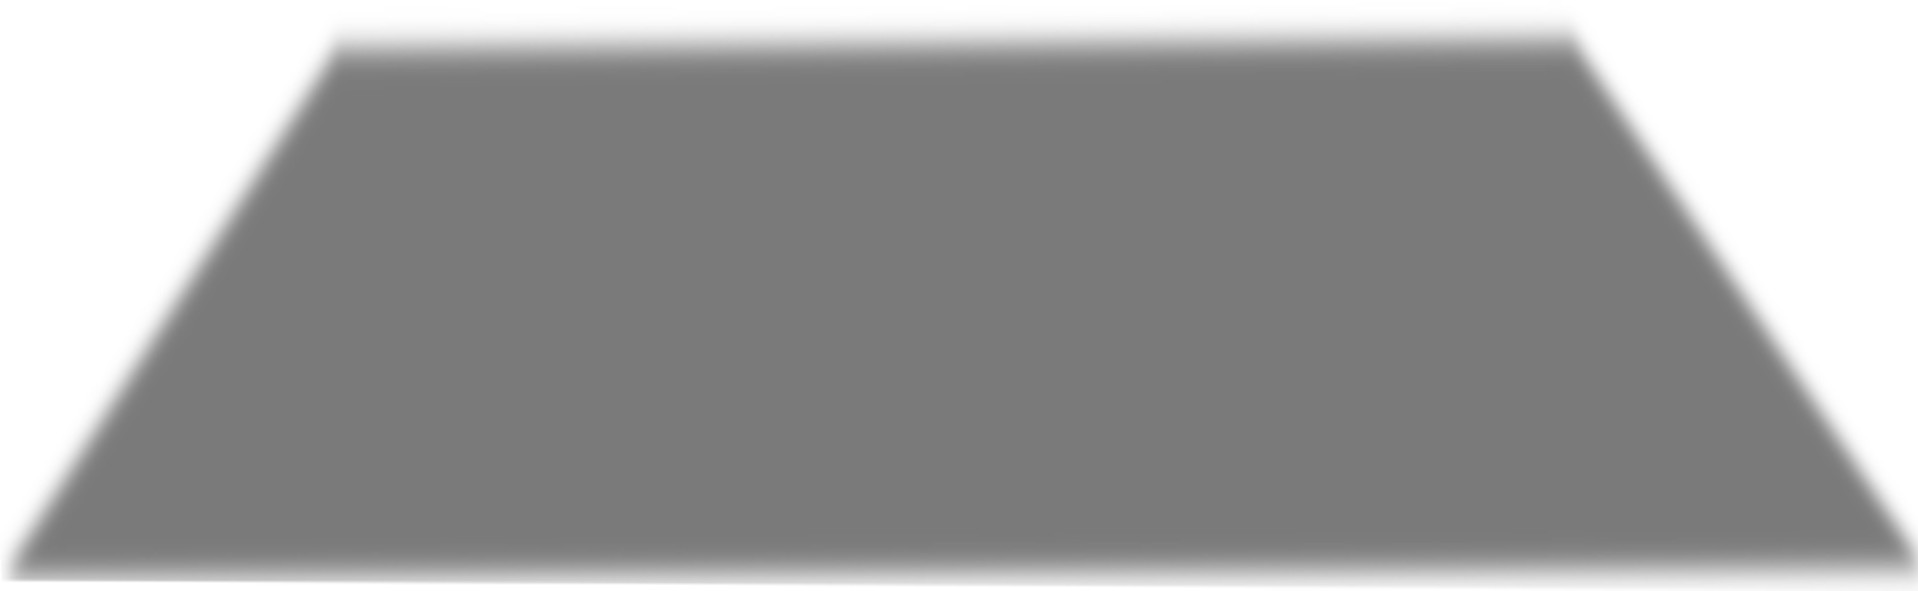
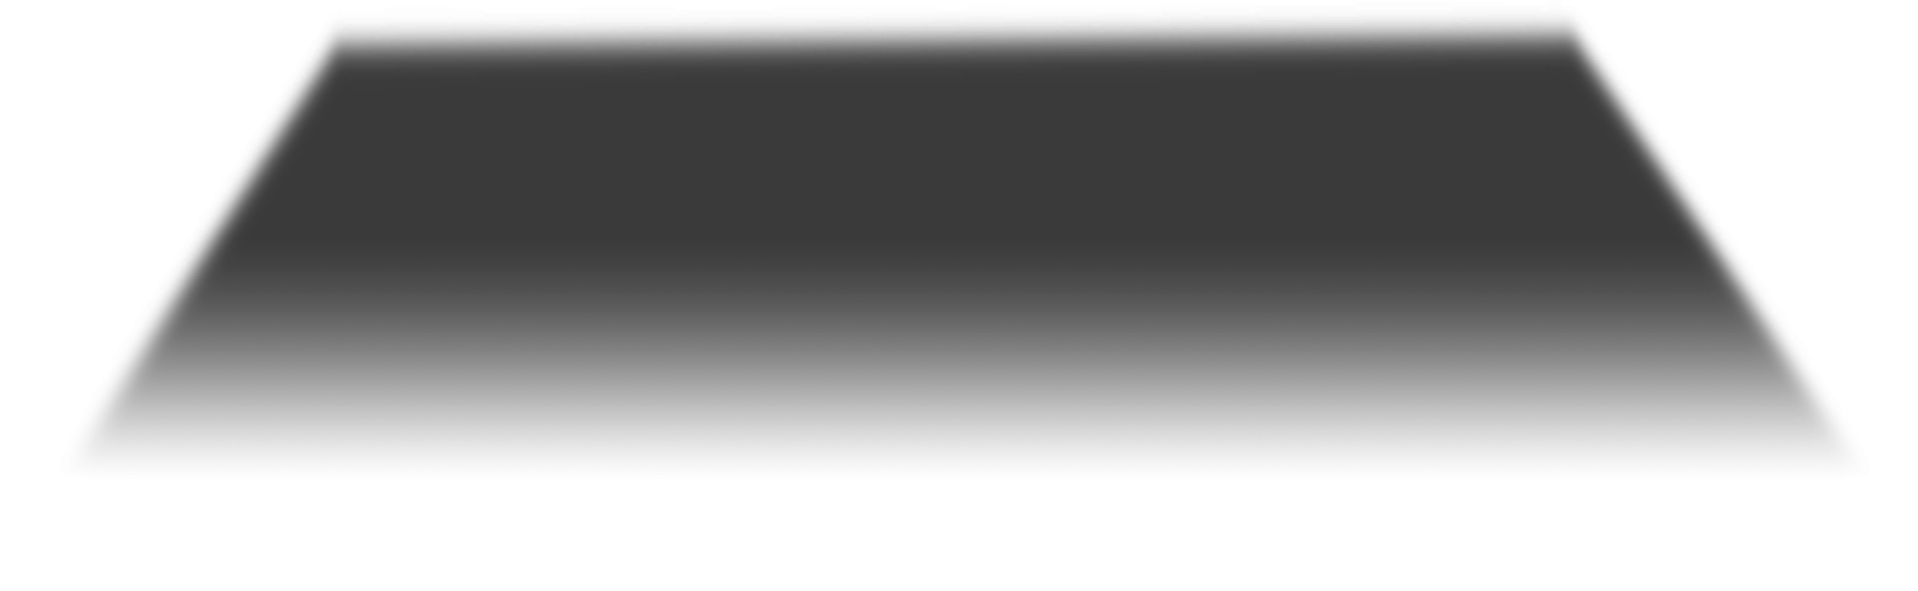
Improve styles

diff --git a/prod/main-60b94870645c21b04190.css b/prod/main-60b94870645c21b04190.css
@@ -1,0 +1,2 @@
+*{margin:0;padding:0;box-sizing:border-box}html{font-size:9px}@media (min-width: 640px){html{font-size:10px}}@media (min-width: 800px){html{font-size:11px}}body{font-size:2rem;font-family:"Rye",cursive;color:#fff;text-align:center;font-weight:normal;background-color:#000}h1{font-family:"Rye",cursive;color:#c68f49;text-align:center;font-size:3.6rem;text-transform:uppercase;margin-bottom:50px}.board{-webkit-filter:brightness(1);filter:brightness(1);position:absolute;top:0;left:0;width:100%;height:100%;overflow:hidden;background-image:url(images/saloon734960.jpg);background-position:top center;background-repeat:no-repeat;background-size:cover}.board__frame{position:absolute;background-repeat:no-repeat;background-size:cover;background-image:url(images/frameb63f53.svg)}.board__frame--top{top:0;left:0;width:100%;height:75px;background-position:top center}.board__frame--bottom{bottom:0;left:0;width:100%;height:75px;background-position:bottom center;-webkit-transform:rotate(180deg);transform:rotate(180deg)}.game{position:absolute;top:0;left:0;width:100%;height:100%;overflow:hidden;display:-webkit-box;display:flex;-webkit-box-align:center;align-items:center;-webkit-box-pack:center;justify-content:center;cursor:url(images/aim4996cc.png) 50 50,auto}.score{position:absolute;top:20px;right:0;width:150px;height:80px;color:#fff;display:none;background-image:url(images/stainb812cc.svg);background-position:center left;background-repeat:no-repeat;background-size:cover;-webkit-box-pack:center;justify-content:center}.score__text{color:#fff;line-height:80px}.saloon{display:-webkit-box;display:flex;display:none;position:relative;flex-wrap:wrap;-webkit-box-align:start;align-items:flex-start;justify-content:space-around;background-image:url(images/buildingc830b2.jpg);background-position:top center;background-repeat:no-repeat;background-size:cover;-webkit-filter:brightness(0.9);filter:brightness(0.9);max-width:1000px;padding:100px 50px 0 50px}.saloon__part{display:-webkit-box;display:flex;flex-wrap:nowrap;flex-basis:33%;padding-bottom:0;justify-content:space-around}.window{background:#000;position:relative;margin-bottom:40px;display:-webkit-box;display:flex}.window__shutter{width:60px;background-image:url(images/shutter954eb8.png);background-position:center center;background-repeat:no-repeat;background-size:cover;display:none}@media (min-width: 640px){.window__shutter{display:-webkit-box;display:flex}}.window__frame{width:100px;height:100px;margin:0;position:relative;overflow:hidden;background-image:url(images/window27bd21.png);background-position:center center;background-repeat:no-repeat;background-size:contain}.window__frame--bottom{position:absolute;bottom:0;left:0;width:100%;height:10px;background-image:url(images/window-frame-btbf74b0.png);background-position:left bottom;background-repeat:no-repeat;background-size:contain}@media (min-width: 1024px){.window__frame{width:140px;height:140px}}.door{background:#000;position:relative;display:-webkit-box;display:flex}.door__shutter{width:60px;background-image:url(images/shutter954eb8.png);background-position:center center;background-repeat:no-repeat;background-size:cover}.door__frame{width:100px;height:200px;margin:0;position:relative;overflow:hidden;background-image:url(images/door-framea0e9ac.png);background-position:center center;background-repeat:no-repeat;background-size:cover}@media (min-width: 1024px){.door__frame{width:140px;height:240px}}.door__bg{position:absolute;top:50%;left:0;width:100%;height:50%;-webkit-transform:translateY(-50%);transform:translateY(-50%);background-image:url(images/door1d5029.png);background-position:center center;background-repeat:no-repeat;background-size:cover}.gunfighter{position:absolute;-webkit-transform:translateX(-50%);transform:translateX(-50%);top:100%;left:50%;height:300px;width:66%;background-image:url(images/gunfighter3b3f4c.png);background-position:center top;background-repeat:no-repeat;background-size:contain}.signboard{width:300px;height:150px;position:absolute;top:-20%;left:50%;-webkit-transform:translateX(-50%);transform:translateX(-50%);background-image:url(images/signboard2c17e0a.png);background-position:left bottom;background-repeat:no-repeat;background-size:contain;display:-webkit-box;display:flex;-webkit-box-pack:center;justify-content:center;-webkit-box-align:center;align-items:center}.signboard__text{color:#fff;font-size:50px;text-align:center;font-family:"Rye",cursive;opacity:0.9;text-shadow:#000 1px 1px;flex-basis:100%}.bullets{position:absolute;bottom:30px;left:10px;width:100%;z-index:99;text-align:left}.bullet{width:20px;height:60px;z-index:99;display:inline-grid;margin-left:5px;background-image:url(images/bullete91d69.png);background-position:left bottom;background-repeat:no-repeat;background-size:contain;-webkit-transform:rotate(10deg);transform:rotate(10deg)}.intro{position:absolute;top:50%;left:50%;width:100%;-webkit-transform:translate(-50%, -50%);transform:translate(-50%, -50%)}.intro__description{display:-webkit-box;display:flex;-webkit-box-align:center;align-items:center;-webkit-box-pack:center;justify-content:center;width:100%;height:50%}.intro__paragraph{text-shadow:#000 1px 1px 1px;margin-bottom:50px}.intro__title{text-shadow:#000 1px 1px 1px}.intro__btn{background-image:url(images/stainb812cc.svg);background-position:center center;background-repeat:no-repeat;background-size:cover;margin:0 auto;width:350px;height:70px}.intro__btn:hover{-webkit-filter:brightness(1.5);filter:brightness(1.5)}.intro__link{color:#fff;font-size:24px;padding:15px 30px;text-shadow:#000 1px 1px 1px;display:block}.round{position:absolute;top:50%;left:50%;-webkit-transform:translate(-50%, -50%);transform:translate(-50%, -50%);display:none;background-image:url(images/stainb812cc.svg);background-position:center center;background-repeat:no-repeat;background-size:cover;margin:0 auto;width:600px;height:120px;flex-wrap:wrap;-webkit-box-pack:center;justify-content:center;-webkit-box-align:center;align-items:center}.round:hover{-webkit-filter:brightness(1.5);filter:brightness(1.5)}.round__btn{color:#c68f49;font-size:1.6rem}.round__congrat{color:#fff;text-transform:uppercase;flex-basis:100%;font-size:2.4rem}.gameover{position:absolute;top:50%;left:50%;-webkit-transform:translate(-50%, -50%);transform:translate(-50%, -50%);display:none;background-image:url(images/stainb812cc.svg);background-position:center center;background-repeat:no-repeat;background-size:cover;margin:0 auto;width:600px;height:120px;flex-wrap:wrap;-webkit-box-pack:center;justify-content:center;-webkit-box-align:center;align-items:center}.gameover:hover{-webkit-filter:brightness(1.5);filter:brightness(1.5)}.gameover__btn{color:#c68f49;font-size:1.6rem}.gameover__text{color:#fff;text-transform:uppercase;font-size:2.4rem}.gameover__score{color:#fff;text-transform:uppercase;font-size:2.4rem}.blood{width:30px;height:30px;-webkit-transform:translate(-15px, -15px);transform:translate(-15px, -15px);position:absolute;background-image:url(images/stain66e712.png);background-position:left bottom;background-repeat:no-repeat;background-size:contain;z-index:99}.showGunfigter{top:10%}.hide{display:none}.show{display:-webkit-box !important;display:flex !important}.flex{display:-webkit-box;display:flex}
+

diff --git a/prod/index.html b/prod/index.html
@@ -1,1 +1,1 @@
-<!DOCTYPE html><html lang="en"><head><meta charset="UTF-8"><meta name="viewport" content="width=device-width,initial-scale=1"><meta http-equiv="X-UA-Compatible" content="ie=edge"><title>Saloon</title><!-- Font --><link href="https://fonts.googleapis.com/css?family=Rye&display=swap&subset=latin-ext" rel="stylesheet"><link href="main-d9a3f984d187c220eeae.css" rel="stylesheet"></head><body><div class="board"><div class="board__frame board__frame--top"></div><div class="board__frame board__frame--bottom"></div><div class="score"><p class="score__text"></p></div></div><div class="game"><!-- Saloon --><div class="saloon"><!-- Saloon part--><div class="saloon__part"><div class="window"><div class="window__shutter"></div><div class="window__frame"><div class="gunfighter"></div><div class="window__frame--bottom"></div></div><div class="window__shutter"></div></div></div><!-- END Saloon part--><!-- Saloon part--><div class="saloon__part"><div class="window"><div class="window__shutter"></div><div class="window__frame"><div class="gunfighter"></div><div class="window__frame--bottom"></div></div><div class="window__shutter"></div></div></div><!-- END Saloon part--><!-- Saloon part--><div class="saloon__part"><div class="window"><div class="window__shutter"></div><div class="window__frame"><div class="gunfighter"></div><div class="window__frame--bottom"></div></div><div class="window__shutter"></div></div></div><!-- END Saloon part--><!-- Saloon part--><div class="saloon__part"><div class="window"><div class="window__shutter"></div><div class="window__frame"><div class="gunfighter"></div><div class="window__frame--bottom"></div></div><div class="window__shutter"></div></div></div><!-- END Saloon part--><!-- Saloon part--><div class="saloon__part"><div class="door"><div class="door__frame"><div class="gunfighter"></div><div class="door__bg"></div></div></div></div><!-- END Saloon part--><!-- Saloon part--><div class="saloon__part"><div class="window"><div class="window__shutter"></div><div class="window__frame"><div class="gunfighter"></div><div class="window__frame--bottom"></div></div><div class="window__shutter"></div></div></div><!-- END Saloon part--><div class="signboard"><div class="signboard__text">Saloon</div></div></div><!-- END Saloon--><div class="intro"><div class="intro__description"><div class="intro__text"><h1 class="intro__title">welcome to wild west</h1><p class="intro__paragraph">Do You want to try,<br>how fast you are?</p></div></div><div class="intro__btn"><a class="intro__link">Start</a></div></div><div class="round"><div class="round__wrapper"><p class="round__congrat">Congratulation!</p><a class="round__btn">Next Round</a></div></div><div class="bullets"></div><audio controls><source src="audio/gun.mp3" type="audio/mpeg">Your browser does not support the audio tag.</audio></div><script type="text/javascript" src="js/main-f0a969a6eb8a2efe4854.js"></script></body></html>
+<!DOCTYPE html><html lang="en"><head><meta charset="UTF-8"><meta name="viewport" content="width=device-width,initial-scale=1"><meta http-equiv="X-UA-Compatible" content="ie=edge"><title>Saloon</title><!-- Font --><link href="https://fonts.googleapis.com/css?family=Rye&display=swap&subset=latin-ext" rel="stylesheet"><link href="main-60b94870645c21b04190.css" rel="stylesheet"></head><body><div class="board"><div class="board__frame board__frame--top"></div><div class="board__frame board__frame--bottom"></div><div class="score"><p class="score__text"></p></div></div><div class="game"><!-- Saloon --><div class="saloon"><!-- Saloon part--><div class="saloon__part"><div class="window"><div class="window__shutter"></div><div class="window__frame"><div class="gunfighter"></div><div class="window__frame--bottom"></div></div><div class="window__shutter"></div></div></div><!-- END Saloon part--><!-- Saloon part--><div class="saloon__part"><div class="window"><div class="window__shutter"></div><div class="window__frame"><div class="gunfighter"></div><div class="window__frame--bottom"></div></div><div class="window__shutter"></div></div></div><!-- END Saloon part--><!-- Saloon part--><div class="saloon__part"><div class="window"><div class="window__shutter"></div><div class="window__frame"><div class="gunfighter"></div><div class="window__frame--bottom"></div></div><div class="window__shutter"></div></div></div><!-- END Saloon part--><!-- Saloon part--><div class="saloon__part"><div class="window"><div class="window__shutter"></div><div class="window__frame"><div class="gunfighter"></div><div class="window__frame--bottom"></div></div><div class="window__shutter"></div></div></div><!-- END Saloon part--><!-- Saloon part--><div class="saloon__part"><div class="door"><div class="door__frame"><div class="gunfighter"></div><div class="door__bg"></div></div></div></div><!-- END Saloon part--><!-- Saloon part--><div class="saloon__part"><div class="window"><div class="window__shutter"></div><div class="window__frame"><div class="gunfighter"></div><div class="window__frame--bottom"></div></div><div class="window__shutter"></div></div></div><!-- END Saloon part--><div class="signboard"><div class="signboard__text">Saloon</div></div></div><!-- END Saloon--><div class="intro"><div class="intro__description"><div class="intro__text"><h1 class="intro__title">welcome to wild west</h1><p class="intro__paragraph">Do You want to try,<br>how fast you are?</p></div></div><div class="intro__btn"><a class="intro__link">Start</a></div></div><div class="round"><div class="round__wrapper"><p class="round__congrat">Congratulation!</p><a class="round__btn">Next Round</a></div></div><div class="bullets"></div><div class="gameover"><div class="gameover__wrapper"><p class="gameover__text">Game Over</p><a class="gameover__btn">Your score: <span class="gameover__score"></span></a></div></div><audio class="audio__gun"><source src="audio/gun.mp3" type="audio/mpeg">Your browser does not support the audio tag.</audio></div><script type="text/javascript" src="js/main-a8a27e42a92c5da461fc.js"></script></body></html>

diff --git a/src/sass/_components.scss b/src/sass/_components.scss
@@ -52,9 +52,9 @@
 // Score
 .score {
   position: absolute;
-  top: 20px;
+  top: 30px;
   right: 0;
-  width: 150px;
+  width: 120px;
   height: 80px;
   color: $white-color;
   display: none;
@@ -63,9 +63,16 @@
   background-repeat: no-repeat;
   background-size: cover;
   justify-content: center;
+  @include mq(s) {
+    width: 150px;
+  }
   &__text {
     color: $white-color;
     line-height: 80px;
+    margin-left: 25px;
+    @include mq(s) {
+      margin-left: 0px;
+    }
   }
 }
 
@@ -82,8 +89,14 @@
   background-repeat: no-repeat;
   background-size: cover;
   filter: brightness(0.9);
-  max-width: 1000px;
-  padding: $xl-space $l-space 0 $l-space;
+  max-width: 980px;
+  padding: 50px 20px 0px 20px;
+  @include mq(s) {
+    padding: 100px 20px 0px 20px;
+  }
+  @include mq(l) {
+    padding: 100px 40px 0px 40px;
+  }
   &__part {
     display: flex;
     flex-wrap: nowrap;
@@ -113,8 +126,8 @@
     }
   }
   &__frame {
-    width: 100px;
-    height: 100px;
+    width: 120px;
+    height: 120px;
     margin: 0;
     position: relative;
     overflow: hidden;
@@ -133,6 +146,12 @@
       background-repeat: no-repeat;
       background-size: contain;
     }
+
+    @include mq(s) {
+      width: 110px;
+      height: 110px;
+    }
+
     @include mq(l) {
       width: 140px;
       height: 140px;
@@ -153,8 +172,8 @@
     background-size: cover;
   }
   &__frame {
-    width: 100px;
-    height: 200px;
+    width: 120px;
+    height: 240px;
     margin: 0;
     position: relative;
     overflow: hidden;
@@ -162,9 +181,13 @@
     background-position: center center;
     background-repeat: no-repeat;
     background-size: cover;
+    @include mq(s) {
+      width: 110px;
+      height: 220px;
+    }
     @include mq(l) {
       width: 140px;
-      height: 240px;
+      height: 280px;
     }
   }
   &__bg {
@@ -190,22 +213,24 @@
   //   top: 10%;
   left: 50%;
   height: 300px;
-  width: 66%;
+  width: 72%;
   background-image: url("../../public/images/gunfighter.png");
   background-position: center top;
   background-repeat: no-repeat;
   background-size: contain;
+  @include mq(s) {
+    width: 66%;
+  }
 }
 
 // Signboard
 
 .signboard {
-  width: 300px;
-  height: 150px;
+  width: 200px;
+  height: 100px;
   position: absolute;
-  top: -20%;
-  left: 50%;
-  transform: translateX(-50%);
+  top: -10%;
+  left: 15px;
   background-image: url("../../public/images/signboard2.png");
   background-position: left bottom;
   background-repeat: no-repeat;
@@ -213,38 +238,62 @@
   display: flex;
   justify-content: center;
   align-items: center;
+  @include mq(s) {
+    width: 300px;
+    height: 150px;
+    position: absolute;
+    top: -20%;
+    left: 50%;
+    transform: translateX(-50%);
+  }
   &__text {
     color: $white-color;
-    font-size: 50px;
+    font-size: 30px;
     text-align: center;
     font-family: $primary-font;
     opacity: 0.9;
     text-shadow: #000 1px 1px;
     flex-basis: 100%;
+    padding-top: 12px;
+
+    @include mq(s) {
+      font-size: 40px;
+    }
+    @include mq(l) {
+      font-size: 50px;
+    }
   }
 }
 
 // Bullets
 .bullets {
   position: absolute;
-  bottom: 30px;
-  left: 10px;
+  bottom: 40px;
+  right: 20px;
   width: 100%;
   z-index: 99;
-  text-align: left;
+  text-align: right;
+  @include mq(s) {
+    text-align: left;
+    left: 20px;
+  }
 }
 
 .bullet {
-  width: 20px;
-  height: 60px;
+  width: 15px;
+  height: 45px;
   z-index: 99;
   display: inline-grid;
-  margin-left: 5px;
+  margin-right: 7px;
   background-image: url("../../public/images/bullet.png");
   background-position: left bottom;
   background-repeat: no-repeat;
   background-size: contain;
   transform: rotate(10deg);
+  @include mq(s) {
+    width: 20px;
+    height: 60px;
+  }
 }
 
 // Intro
@@ -254,6 +303,7 @@
   left: 50%;
   width: 100%;
   transform: translate(-50%, -50%);
+  padding: 0px 10px;
 
   &__description {
     display: flex;
@@ -270,6 +320,7 @@
   }
   &__title {
     text-shadow: $shadow;
+    letter-spacing: 2px;
   }
 
   &__btn {
@@ -376,15 +427,25 @@
 
 // Blood
 .blood {
-  width: 30px;
-  height: 30px;
-  transform: translate(-15px, -15px);
+  width: 70px;
+  height: 70px;
+  transform: translate(-35px, -35px);
   position: absolute;
-  background-image: url("../../public/images/stain.png");
+  background-image: url("../../public/images/stain2.png");
   background-position: left bottom;
   background-repeat: no-repeat;
   background-size: contain;
   z-index: 99;
+  @include mq(s) {
+    width: 70px;
+    height: 70px;
+    transform: translate(-35px, -35px);
+  }
+  @include mq(l) {
+    width: 100px;
+    height: 100px;
+    transform: translate(-50px, -50px);
+  }
 }
 
 // Special
@@ -402,4 +463,21 @@
 
 .flex {
   display: flex;
+}
+
+.shadow {
+  width: 124%;
+  height: 200px;
+  opacity: 1;
+  background-image: url("../../public/images/shadow.png");
+  background-position: left bottom;
+  background-repeat: no-repeat;
+  background-size: cover;
+  position: absolute;
+  top: 100%;
+  left: -12%;
+  display: none;
+  @include mq(l) {
+    display: block;
+  }
 }

diff --git a/prod/js/main-a8a27e42a92c5da461fc.js b/prod/js/main-a8a27e42a92c5da461fc.js
@@ -1,0 +1,1 @@
+!function(e){var t={};function n(r){if(t[r])return t[r].exports;var o=t[r]={i:r,l:!1,exports:{}};return e[r].call(o.exports,o,o.exports,n),o.l=!0,o.exports}n.m=e,n.c=t,n.d=function(e,t,r){n.o(e,t)||Object.defineProperty(e,t,{enumerable:!0,get:r})},n.r=function(e){"undefined"!=typeof Symbol&&Symbol.toStringTag&&Object.defineProperty(e,Symbol.toStringTag,{value:"Module"}),Object.defineProperty(e,"__esModule",{value:!0})},n.t=function(e,t){if(1&t&&(e=n(e)),8&t)return e;if(4&t&&"object"==typeof e&&e&&e.__esModule)return e;var r=Object.create(null);if(n.r(r),Object.defineProperty(r,"default",{enumerable:!0,value:e}),2&t&&"string"!=typeof e)for(var o in e)n.d(r,o,function(t){return e[t]}.bind(null,o));return r},n.n=function(e){var t=e&&e.__esModule?function(){return e.default}:function(){return e};return n.d(t,"a",t),t},n.o=function(e,t){return Object.prototype.hasOwnProperty.call(e,t)},n.p="",n(n.s=0)}([function(e,t,n){"use strict";n.r(t);n(1),n(2)},function(e,t,n){},function(e,t){document.querySelectorAll(".window-frame");var n,r,o,c,i,l,u,a,d,s=document.querySelectorAll(".gunfighter"),f=document.querySelector(".score__text"),v=document.querySelector(".score"),m=(document.querySelector(".board"),document.querySelector(".game")),y=document.querySelector(".bullets"),L=document.querySelector(".round"),h=document.querySelector(".signboard__text"),p=document.querySelector(".saloon"),g=document.querySelector(".intro"),S=document.querySelector(".intro__link"),b=(document.querySelector(".audio__gun"),document.querySelector(".gameover")),w=document.querySelector(".gameover__score");function q(){if(d<interval){d++,console.log(d);var e=function e(t){var n=t[Math.floor(Math.random()*t.length)];return n.classList.contains("showGunfigter")?e(t):n}(s);e.classList.add("showGunfigter");var t=setTimeout(_,a);e.addEventListener("click",(function n(){clearTimeout(t),e.removeEventListener("click",n)}))}}function _(){clearInterval(c),b.classList.add("show"),w.innerHTML=r,b.addEventListener("click",M)}function M(){window.location.reload(!1)}function E(){L.classList.remove("show"),x()}function T(){var e=y.lastChild;y.removeChild(e),document.querySelectorAll(".bullet").length<=0&&_()}function x(){var e,t;interval+=Math.round(30*interval/100),n++,o=r+interval,i=interval+2,l-=15*l/100,u-=15*u/100,a-=10*a/100,d=0,f.innerHTML=r,h.innerHTML="Runda ".concat(n),clearInterval(c),function(){y.innerHTML="";for(var e=0;e<i;e++){var t=document.createElement("div");t.classList.add("bullet"),y.appendChild(t)}}(),window.addEventListener("click",T),c=setInterval((function(){q()}),(e=l,t=u,Math.round(Math.random()*(t-e)+e)))}function k(){s.forEach((function(e){return e.classList.remove("showGunfigter")})),b.classList.remove("show"),clearInterval(c),n=0,r=0,l=1200,u=1500,a=3e3,interval=3,o=r+interval,i=interval+2,d=0,f.innerHTML=r,x()}S.addEventListener("click",(function(){g.classList.add("hide"),p.classList.add("flex"),v.classList.add("show"),k()})),s.forEach((function(e){return e.addEventListener("click",(function(e){var t=e.pageX,n=e.pageY,i=document.createElement("div");i.classList.add("blood"),i.style.left="".concat(t,"px"),i.style.top="".concat(n,"px"),m.appendChild(i),setTimeout((function(){m.removeChild(i)}),200),e.target.classList.remove("showGunfigter"),r++,f.innerHTML=r,r==o&&(clearInterval(c),L.classList.add("show"),L.addEventListener("click",E),window.removeEventListener("click",T))}))}))}]);

diff --git a/index.html b/index.html
@@ -10,15 +10,43 @@
       href="https://fonts.googleapis.com/css?family=Rye&display=swap&subset=latin-ext"
       rel="stylesheet"
     />
+    <link rel="icon" href="images/favicon.png" sizes="16x16" type="image/png" />
+    <link
+      rel="icon"
+      href="images/favicon48.png"
+      sizes="48x48"
+      type="image/png"
+    />
+    <link
+      rel="icon"
+      href="images/favicon72.png"
+      sizes="72x72"
+      type="image/png"
+    />
+    <link
+      rel="icon"
+      href="images/favicon96.png"
+      sizes="96x96"
+      type="image/png"
+    />
+    <link
+      rel="icon"
+      href="images/favicon144.png"
+      sizes="144x144"
+      type="image/png"
+    />
+    <link
+      rel="icon"
+      href="images/favicon192.png"
+      sizes="192x192"
+      type="image/png"
+    />
   </head>
 
   <body>
     <div class="board">
       <div class="board__frame board__frame--top"></div>
       <div class="board__frame board__frame--bottom"></div>
-      <div class="score">
-        <p class="score__text"></p>
-      </div>
     </div>
     <div class="game">
       <!-- Saloon -->
@@ -96,7 +124,9 @@
         <div class="signboard">
           <div class="signboard__text">Saloon</div>
         </div>
+        <div class="shadow"></div>
       </div>
+
       <!-- END Saloon-->
       <div class="intro">
         <div class="intro__description">
@@ -133,6 +163,9 @@
         <source src="audio/gun.mp3" type="audio/mpeg" />
         Your browser does not support the audio tag.
       </audio>
+      <div class="score">
+        <p class="score__text"></p>
+      </div>
     </div>
   </body>
 </html>

diff --git a/src/sass/_utils.scss b/src/sass/_utils.scss
@@ -4,7 +4,7 @@
 $primary-color: black;
 $white-color: white;
 $red-color: rgb(194, 2, 2);
-$gold-color: #c68f49;
+$gold-color: #df9639;
 
 // fonts
 $primary-font: "Rye", cursive;
@@ -27,20 +27,20 @@ $opacity: 0.7;
 // breakpoints
 $breakpoints: (
   xs: (
-    min-width: 460px
+    min-width: 370px,
   ),
   s: (
-    min-width: 640px
+    min-width: 640px,
   ),
   m: (
-    min-width: 800px
+    min-width: 800px,
   ),
   l: (
-    min-width: 1024px
+    min-width: 1024px,
   ),
   xl: (
-    min-width: 1200px
-  )
+    min-width: 1200px,
+  ),
 );
 
 // media query

diff --git a/src/js/gunfight.js b/src/js/gunfight.js
@@ -136,7 +136,7 @@ function startRound() {
 }
 
 function startGame() {
-  gunfighters.forEach(g => g.classList.remove("showGunfigter"));
+  gunfighters.forEach((g) => g.classList.remove("showGunfigter"));
   gameOver.classList.remove("show");
   clearInterval(game);
   gameSettings();
@@ -152,8 +152,8 @@ function init() {
 
 start.addEventListener("click", init);
 
-gunfighters.forEach(g =>
-  g.addEventListener("click", e => {
+gunfighters.forEach((g) =>
+  g.addEventListener("click", (e) => {
     // Blood
     const x = e.pageX;
     const y = e.pageY;
